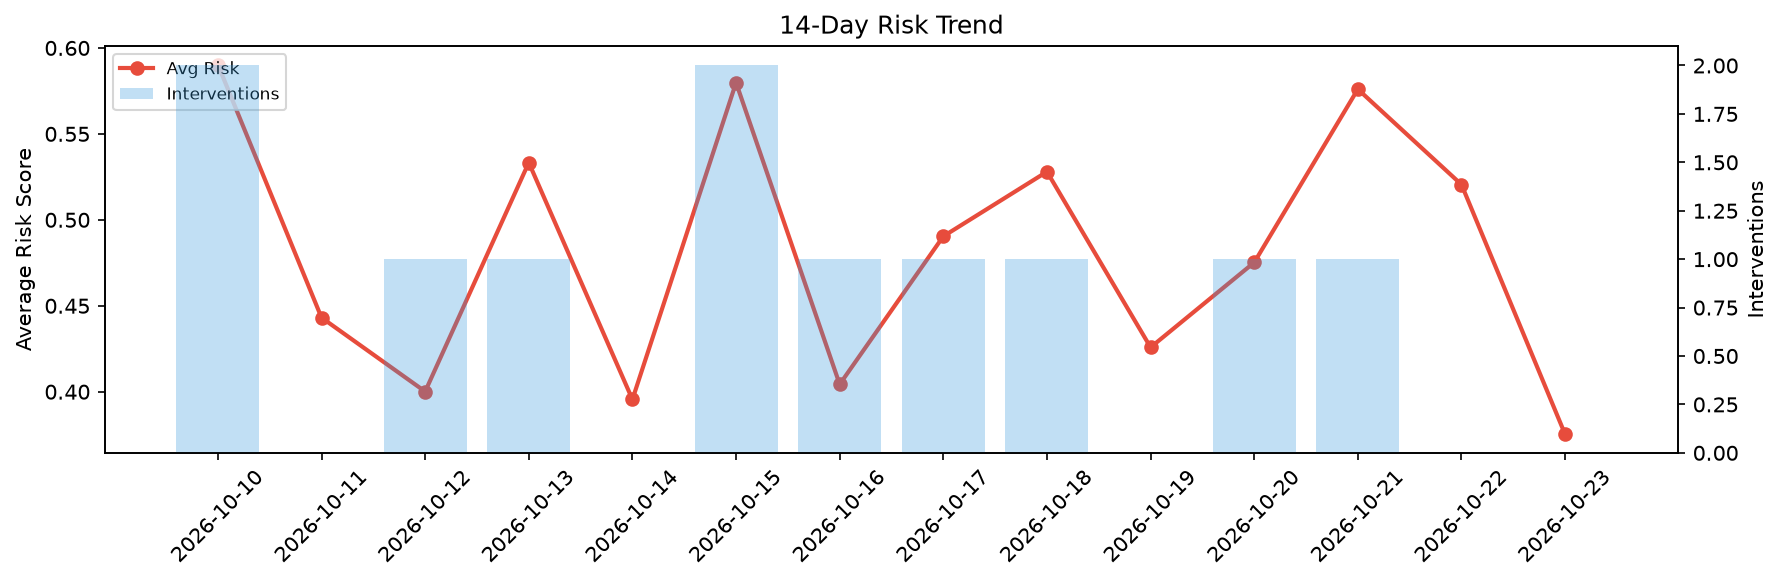
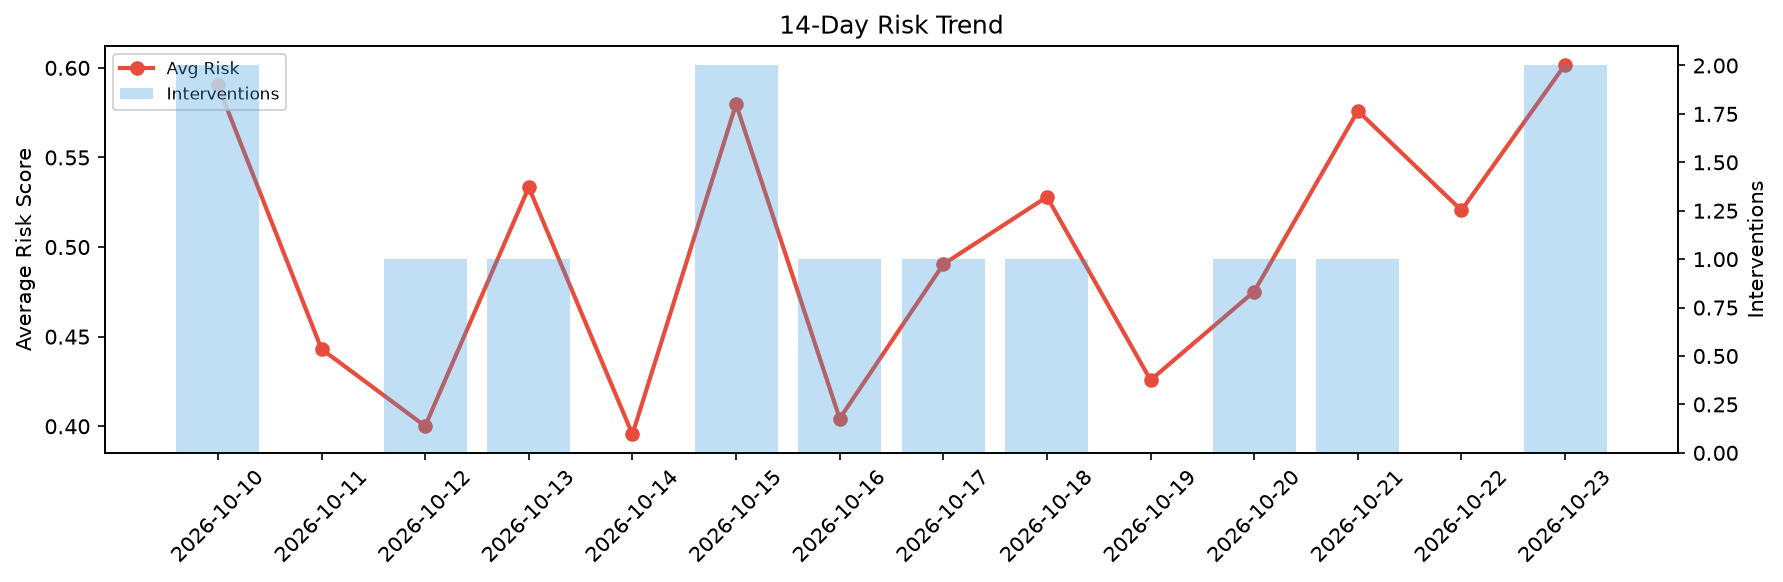
agent-improvement: daily cycle 2026-10-23T23:07

diff --git a/logs/2026-10-23.md b/logs/2026-10-23.md
@@ -1,6 +1,6 @@
 # Agent Improvement Report — 2026-10-23
 
-**Cycle ID:** `3c8c8497` | **Avg Risk:** 0.3752 | **Interventions:** 0/4
+**Cycle ID:** `bacce4a1` | **Avg Risk:** 0.6018 | **Interventions:** 2/4
 
 ![Dashboard](2026-10-23_dashboard.png)
 
@@ -10,18 +10,18 @@
 
 | Domain | Risk Score | Decision | Alerts |
 |--------|-----------|----------|--------|
-| code_review | 0.4522 | monitor | none |
-| incident_response | 0.344 | monitor | blast_radius |
-| data_pipeline | 0.2453 | monitor | none |
-| deployment | 0.4592 | monitor | none |
+| code_review | 0.4635 | monitor | none |
+| incident_response | 0.4673 | monitor | none |
+| data_pipeline | 0.7626 | intervene | schema_drift, volume_anomaly |
+| deployment | 0.7139 | intervene | rollback_rate, canary_error |
 
 ## Delta vs Yesterday
 
 | Domain | Today | Yesterday | Change |
 |--------|-------|-----------|--------|
-| code_review | 0.4522 | 0.527 | 📉 -14.2% |
-| incident_response | 0.344 | 0.5378 | 📉 -36.0% |
-| data_pipeline | 0.2453 | 0.493 | 📉 -50.2% |
-| deployment | 0.4592 | 0.5244 | 📉 -12.4% |
+| code_review | 0.4635 | 0.527 | 📉 -12.0% |
+| incident_response | 0.4673 | 0.5378 | 📉 -13.1% |
+| data_pipeline | 0.7626 | 0.493 | 📈 54.7% |
+| deployment | 0.7139 | 0.5244 | 📈 36.1% |
 
 **Refinement:** `{'adjustment': 'tighten_thresholds', 'trend': 'degrading', 'window': 4}`
